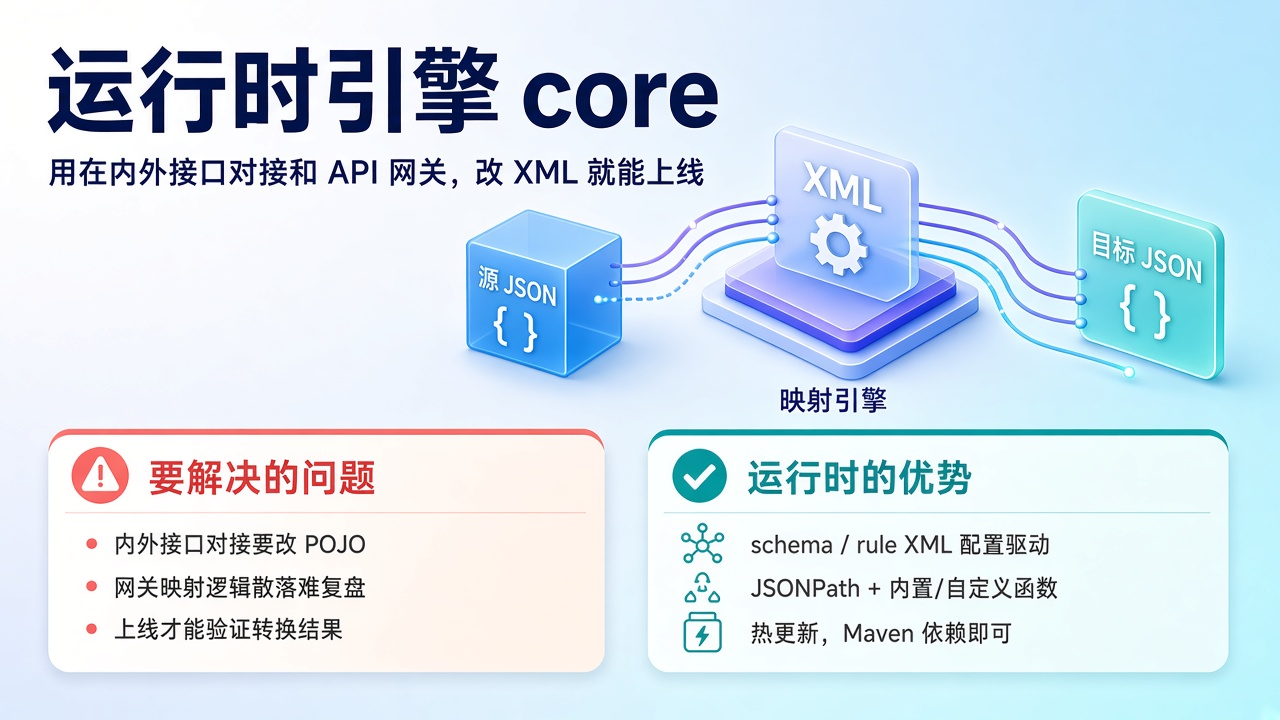
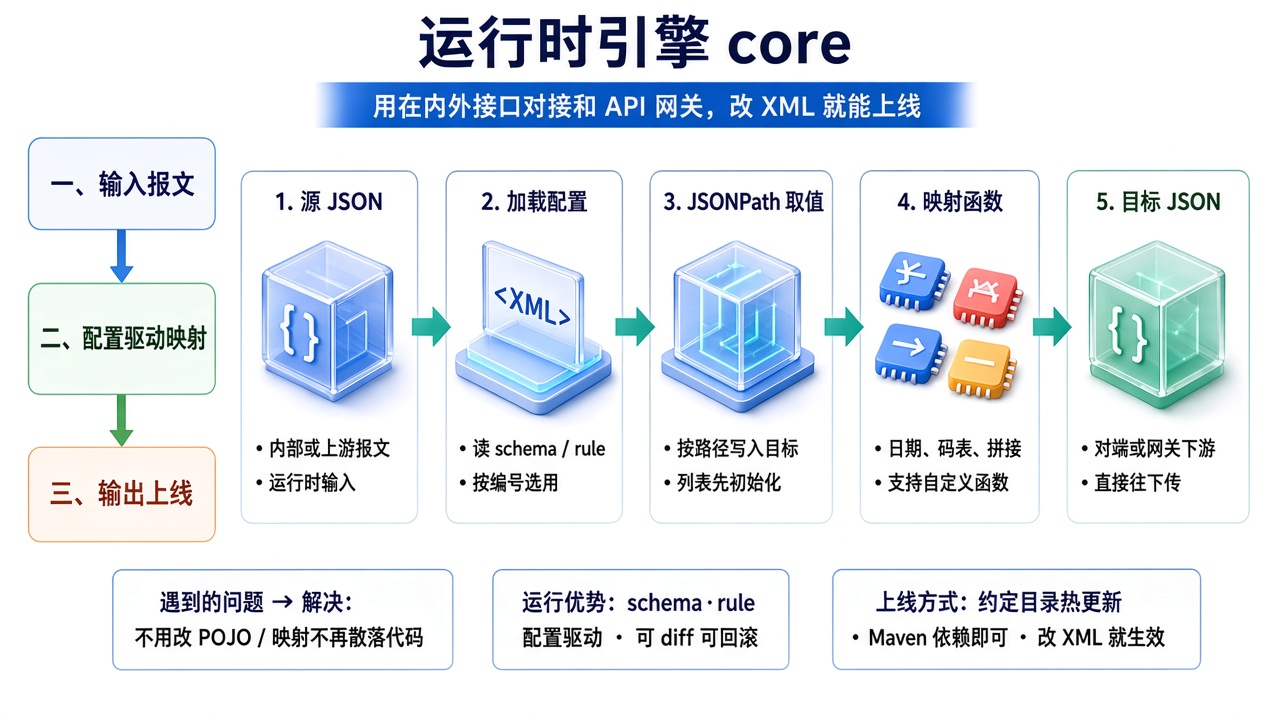
docs: 说明图优化

diff --git a/README.md b/README.md
@@ -24,7 +24,7 @@
 
 ## 要解决的问题
 
-![要解决的问题：内外接口字段对不齐、网关硬编码、Schema 难读、手写路径易错、改完要发版](docs/problems-overview.png)
+![要解决的问题](docs/problems-overview.png)
 
 - **内外接口字段对不齐。** 内部模型一套，外部网关或第三方又是另一套，对应关系散落在转换类里，新人看不懂，评审也很难一眼看出「哪个字段进了对端」。
 - **网关出入参靠硬编码。** API 网关、接口编排里为了对齐报文去生成 Java 类、补 setter，和真正的路由、鉴权逻辑缠在一起，接口一变就要改代码。
@@ -74,7 +74,7 @@
 
 给「跑在服务或网关里的代码」用：工程依赖这一个模块，用 schema 编号和 rule 编号做一次映射，得到目标 JSON。
 
-![运行时引擎：配置驱动的 JSON 映射](docs/core-overview.png)
+![运行时引擎](docs/core-overview.png)
 
 **能做什么**
 
